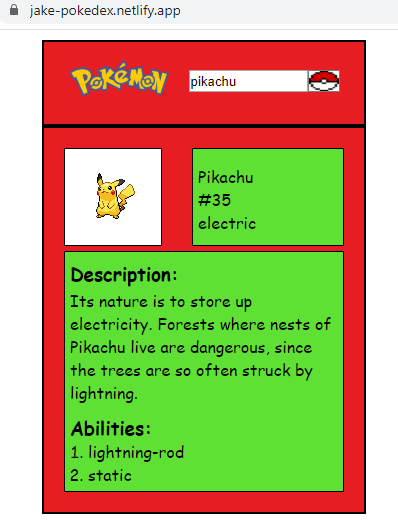
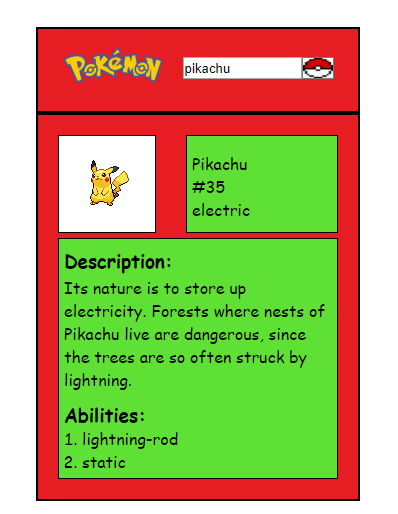
updated cards and components

Changed region(s): [[0.0302, 0.0, 0.9347, 0.9961]]

diff --git a/src/components/projects/movieSearch/index.js b/src/components/projects/movieSearch/index.js
@@ -1,0 +1,42 @@
+import React from 'react';
+import '../index.css';
+
+const smallImage = require("../../../assets/movie-search-thumbnail.png")
+const largeImage = require("../../../assets/movie-search.png")
+
+const MovieSearch = () => {
+    return (
+        <main className="project-container">
+                <h1 className="project-title">OMDb Searcher</h1>
+                <p className="project-description">
+                    The client wanted a webpage that allowed them to track characters and scores for a game that they play. I decided to use a layout
+                    similar to the one found in the game.
+                </p>
+                <p className="project-description">
+                    I built the page using plain HTML and CSS plus JavaScript with jQuery. The  character portraits are generated by a
+                    for loop that creates each image element and appends them to a div. I used the flex display in CSS to get the layout, which is
+                    responsive adjusting the images for different screens sizes.
+                </p>
+                <p className="project-description">
+                    For this webpage I decided to try out jQuery, I liked the ease of selecting DOM elements and the improved readability of code. 
+                    The feature that I found most useful was the built in iterator which made for cleaner code. 
+                </p>
+                <p className="project-description">
+                    I wrote a suit of tests for the code using the Jest library, mainly running functions on mock 
+                    elements to check the correct actions are carried out on them. This project also used NPM, Webpack, Babel, Prettier and ESLint.
+                </p>
+                <a className="project-link" href="https://jh-movie-search.netlify.app/">Visit the site</a>
+                <a className="project-link" href="https://github.com/jakehowlett93/movie-search">Visit the repository.</a>
+                <img 
+                    className="project-image" 
+                    src={smallImage} 
+                    srcSet={`${smallImage} 424w, ${largeImage} 1149w`}
+                    sizes="(max-width: 600px) 80vw"
+                    alt=""
+                />
+        </main>
+            
+    )
+}
+
+export default MovieSearch;

diff --git a/src/components/projects/smashDown/index.js b/src/components/projects/smashDown/index.js
@@ -1,0 +1,42 @@
+import React from 'react';
+import '../index.css';
+
+const smallImage = require("../../../assets/smashdown-thumbnail.png")
+const largeImage = require("../../../assets/smashdown.png")
+
+const SmashDown = () => {
+    return (
+        <main className="project-container">
+                <h1 className="project-title">Smash Down</h1>
+                <p className="project-description">
+                    The client wanted a webpage that allowed them to track characters and scores for a game that they play. I decided to use a layout
+                    similar to the one found in the game.
+                </p>
+                <p className="project-description">
+                    I built the page using plain HTML and CSS plus JavaScript with jQuery. The  character portraits are generated by a
+                    for loop that creates each image element and appends them to a div. I used the flex display in CSS to get the layout, which is
+                    responsive adjusting the images for different screens sizes.
+                </p>
+                <p className="project-description">
+                    For this webpage I decided to try out jQuery, I liked the ease of selecting DOM elements and the improved readability of code. 
+                    The feature that I found most useful was the built in iterator which made for cleaner code. 
+                </p>
+                <p className="project-description">
+                    I wrote a suit of tests for the code using the Jest library, mainly running functions on mock 
+                    elements to check the correct actions are carried out on them. This project also used NPM, Webpack, Babel, Prettier and ESLint.
+                </p>
+                <a className="project-link" href="https://smash-down.neocities.org/">Visit the site</a>
+                <a className="project-link" href="https://github.com/jakehowlett93/smash-down">Visit the repository.</a>
+                <img 
+                    className="project-image" 
+                    src={smallImage} 
+                    srcSet={`${smallImage} 424w, ${largeImage} 1149w`}
+                    sizes="(max-width: 600px) 80vw"
+                    alt=""
+                />
+        </main>
+            
+    )
+}
+
+export default SmashDown;

diff --git a/src/components/projects/pokedex/index.js b/src/components/projects/pokedex/index.js
@@ -1,0 +1,36 @@
+import React from 'react';
+import '../index.css';
+
+const smallImage = require("../../../assets/pokedex-thumbnail.png")
+const largeImage = require("../../../assets/pokedex.png")
+
+const Pokedex = () => {
+    return (
+        <main className="project-container">
+                <h1 className="project-title">Pokedex</h1>
+                <p className="project-description">
+                    This is a personal project that I completed to get some practice with making API requests using the async await syntax. I chose to use
+                    the pokeAPI to practice as it is free to use and well documented.
+                </p>
+                <p className="project-description">
+                    I built the page using plain HTML, CSS and JavaScript. Most of the work is done inside the handle submit function which calls a number of other
+                    functions to make api requests and then display the information to the user.
+                </p>    
+                <p className="project-description">
+                    I enjoyed the challenge of learning about asynchronous code and the concept of promises, aswell as testing such code with the jest library.
+                </p>
+                <a className="project-link" href="https://jake-pokedex.netlify.app/">Visit the site</a>
+                <a className="project-link" href="https://github.com/jakehowlett93/pokedex-pokeapi">Visit the repository.</a>
+                <img 
+                    className="project-image" id="pokedex-image" 
+                    src={smallImage} 
+                    srcSet={`${smallImage} 323w, ${largeImage} 398w`}
+                    sizes="(max-width: 800px) 80vw"
+                    alt=""
+                />
+        </main>
+            
+    )
+}
+
+export default Pokedex;

diff --git a/src/components/cards/index.css b/src/components/cards/index.css
@@ -57,18 +57,43 @@
         height: 400px;
         position: relative;
         margin-right: 30px;
+    }
 
+    .card:hover {
+        transform: scale(1);
     }
 
     .card-info {
-        background: url('../../assets/card-circle.png') no-repeat 50% 50%/190px;
-        position:absolute;
-        z-index: 998;
+        position: absolute;
         width: 100%;
         height: 100%;
         top: 0;
-        left: 0;
+        left:0;
+        z-index: 999;
+        transition: 0.3s
     }
+
+    .card-info:hover {
+        opacity: 0%;
+    }
+
+      
+    .card-circle {
+        background: white;
+        position:absolute;
+        display: flex;
+        flex-direction: column;
+        width: 170px;
+        height: 170px;
+        border-radius: 50%;
+        box-shadow: 0 0 5px rgba(50, 50, 50, 0.75);
+        top: 28%;
+        left: 25%;
+    
+    }
+
+
+
 
     .card-image {
         width: 100%;
@@ -78,23 +103,7 @@
         left: 0;
     }
 
-    .card-title {
-        position: absolute;
-        display: flex;
-        z-index: 999;
-        top: 110px;
-        left: 115px;
-        width: 110px;
-        text-align: center;
+    .extra-padding {
+        padding-top: 10px;
     }
-
-    .card-subtitle {
-        position: absolute;
-        z-index: 999;
-        top: 200px;
-        left: 110px;
-        width: 120px;
-    }
-
-
 }

diff --git a/src/components/App.js b/src/components/App.js
@@ -3,7 +3,11 @@ import { BrowserRouter, Route } from 'react-router-dom';
 
 import Cards from '../components/cards';
 import Header from '../components/header';
-import './app.css'
+import CurrentProject from './projects/currentProject';
+import MovieSearch from './projects/movieSearch';
+import Pokedex from './projects/pokedex';
+import SmashDown from './projects/smashDown';
+import './app.css';
 
 const App = () => {
     return (
@@ -13,7 +17,11 @@ const App = () => {
                     <Header />
                 </nav>
                 <main className="content">
-                    <Route path="/" exact component={Cards} />       
+                    <Route path="/" exact component={Cards} />
+                    <Route path="/current-project" exact component={CurrentProject} />
+                    <Route path="/movie-search" exact component={MovieSearch} />
+                    <Route path="/pokedex" exact component={Pokedex} />
+                    <Route path="/smash-down" exact component={SmashDown} />
                 </main>  
             </BrowserRouter>
           

diff --git a/src/components/projects/currentProject/index.js b/src/components/projects/currentProject/index.js
@@ -1,8 +1,25 @@
 import React from 'react';
+import '../index.css';
+
+const smallImage = require("../../../assets/smashdown-thumbnail.png")
+const largeImage = require("../../../assets/smashdown.png")
 
 const CurrentProject = () => {
     return (
-        <div>Current Project</div>
+        <main className="project-container">
+
+                <h1 className="project-title">Current Project</h1>
+                <p className="project-description">some description about ddlkjs lksjd flskjflskjd flksd jflskj flsdj flsj flskdjf sl;djf;slfj ;lsj fl'asjflajks flaj fl;sjd flsdjf lskdjfspdfj pow jf;wljf w;elkf p;sodkpf oskf ;lsekf </p>
+                <img 
+                    className="project-image" 
+                    src={smallImage} 
+                    srcSet={`${smallImage} 424w, ${largeImage} 1149w`}
+                    sizes="(max-width: 600px) 80vw"
+                    alt=""
+                />
+
+        </main>
+            
     )
 }
 

diff --git a/src/components/cards/smashDownCard/index.js b/src/components/cards/smashDownCard/index.js
@@ -3,10 +3,14 @@ import { Link } from 'react-router-dom';
 
 const SmashdownCard = () => {
     return (
-        <Link to='/smashdown' className="card-link">
+        <Link to='/smash-down' className="card-link">
             <div className="card">
-                <h3 className="card-title">Smashdown tracker</h3>
-                <p className="card-subtitle">JS jQuery CSS HTML</p>
+                <div className="card-info">
+                    <div className="card-circle">
+                        <h3 className="card-title extra-padding">Smashdown <br/> tracker</h3>
+                        <p className="card-subtitle">JS jQuery CSS HTML</p>
+                    </div>
+                </div>
                 <img className="card-image" src={ require("../../../assets/smashdown-thumbnail.png") } alt="Smashdown project" />
             </div>
         </Link>

diff --git a/src/components/cards/currentProjectCard/index.js b/src/components/cards/currentProjectCard/index.js
@@ -6,8 +6,10 @@ const CurrentProjectCard = () => { //gotta change card-title to project-title in
         <Link to='/current-project' className="card-link">
             <div className="card">
                 <div className="card-info">
-                    <h3 className="card-title">Current Project</h3>
-                    <p className="card-subtitle">placeholder text and image</p>
+                    <div className="card-circle">
+                        <h3 className="card-title extra-padding">Current <br/> Project</h3>
+                        <p className="card-subtitle">React CSS</p>
+                    </div>
                 </div>
                 <img className="card-image" src={ require("../../../assets/current-project-thumbnail.png") } alt="current Project" />
             </div>

diff --git a/src/components/cards/movieSearchCard/index.js b/src/components/cards/movieSearchCard/index.js
@@ -5,8 +5,12 @@ const MovieSearchCard = () => {
     return (
         <Link to='/movie-search' className="card-link">
             <div className="card">
-                <h3 className="card-title">OMDb searcher</h3>
-                <p className="card-subtitle">React Redux(thunk)</p>
+                <div className="card-info">
+                    <div className="card-circle">
+                        <h3 className="card-title">OMDb <br/> searcher</h3>
+                        <p className="card-subtitle">React Redux(thunk)</p>
+                    </div>
+                </div>
                 <img className="card-image" src={ require("../../../assets/movie-search-thumbnail.png") } alt="Movie search project" />
             </div>
         </Link>

diff --git a/src/components/cards/pokedexCard/index.js b/src/components/cards/pokedexCard/index.js
@@ -5,8 +5,12 @@ const PokedexCard = () => {
     return (
         <Link to='/pokedex' className="card-link">
             <div className="card">
-                <h3 className="card-title">PokeAPI Pokedex</h3>
-                <p className="card-subtitle">JS HTML CSS</p>
+                <div className="card-info">
+                    <div className="card-circle">
+                        <h3 className="card-title extra-padding" >PokeAPI <br/> Pokedex</h3>
+                        <p className="card-subtitle">JS HTML CSS</p>
+                    </div>
+                </div>
                 <img className="card-image" src={ require("../../../assets/pokedex-thumbnail.png") } alt="Pokedex project" />
             </div>
         </Link>

diff --git a/src/components/projects/index.css b/src/components/projects/index.css
@@ -1,0 +1,38 @@
+.project-container {
+    display: flex;
+    flex-direction: column;
+    max-width: 1200px;
+    margin-left: auto;
+    margin-right: auto;
+    margin-bottom: 3%;
+}
+
+.project-description {
+    margin-bottom: 0px;
+}
+
+.project-title {
+    text-align: center;
+    margin-top: 0;
+}
+
+.project-image {
+    max-height: 500px;
+    margin-top: 30px;
+}
+
+#pokedex-image {
+    max-width: 400px;
+    margin-left: auto;
+    margin-right: auto;
+}
+
+.project-link {
+    font-weight: bold;
+    color: black;
+    text-decoration: none;
+    max-width: 200px;
+}
+
+@media only screen and (min-width: 1000px) {
+}

diff --git a/src/components/header/index.css b/src/components/header/index.css
@@ -8,6 +8,7 @@
     border-radius: 25px;
     display: block;
     margin: 0 auto;
+    height: 100px;
 }
 
 .nav-span-container {
@@ -43,6 +44,6 @@
     }
 
     .nav-span {
-        padding: 10px 0 10px 50px;
+        padding: 0 0 10px 50px;
     }
 }
